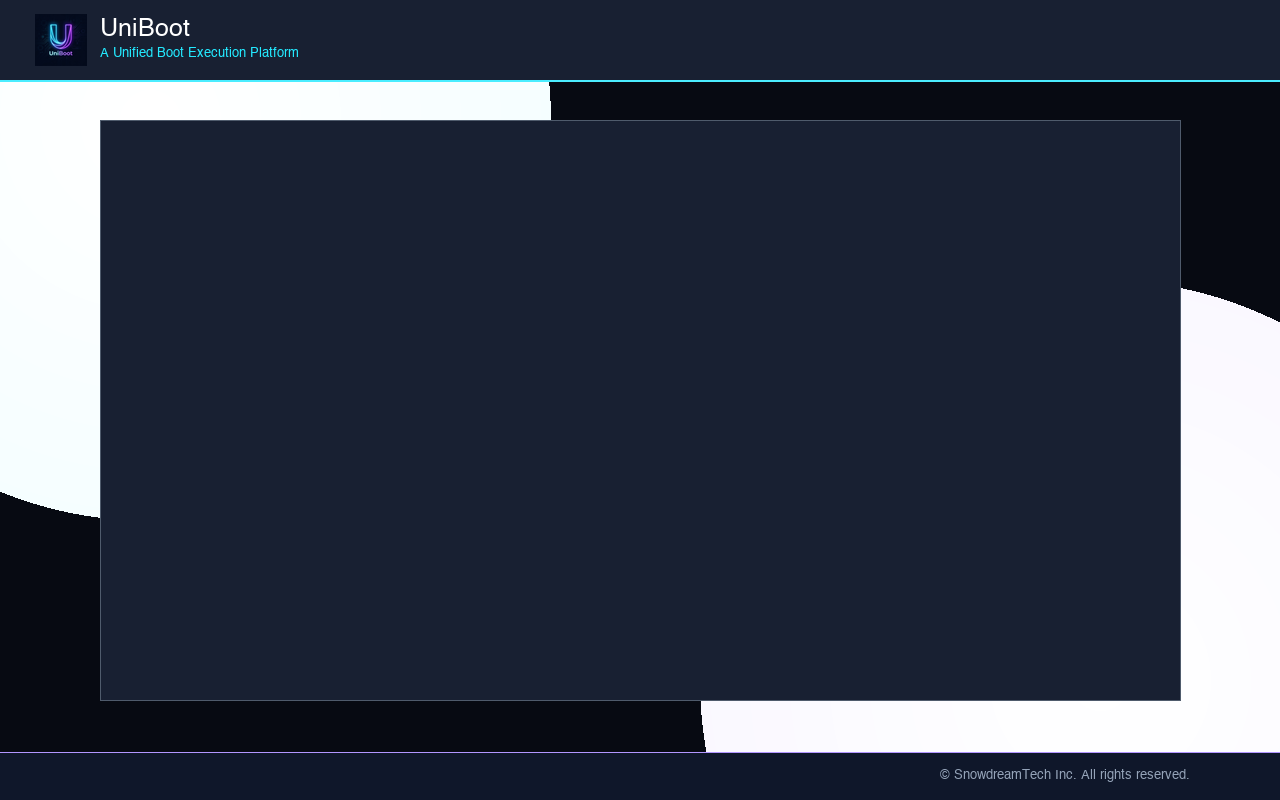
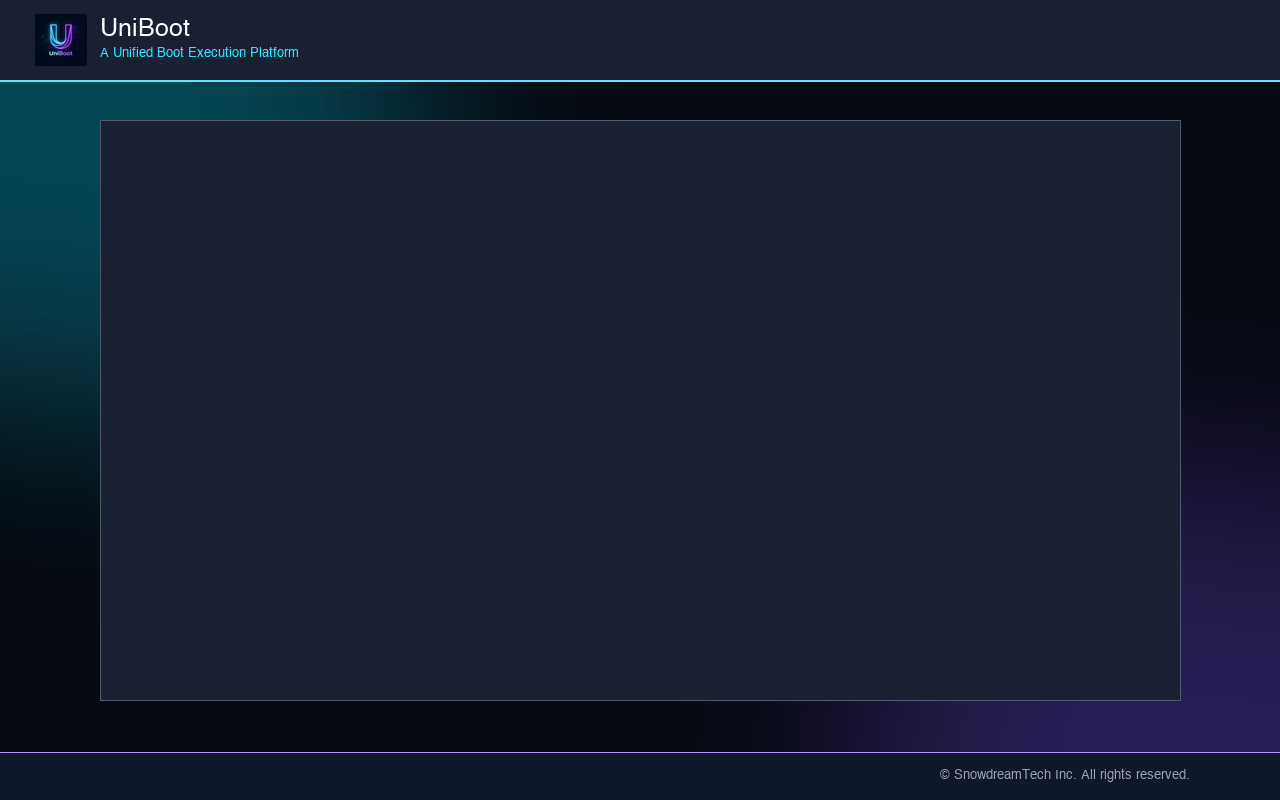
style(theme): apply soft Gaussian blur for ambient background glow

Changed region(s): [[0.5312, 0.3438, 1.0, 0.9375], [0.0, 0.0938, 0.4375, 0.6562]]

diff --git a/scripts/make_ventoy_theme.py b/scripts/make_ventoy_theme.py
@@ -7,7 +7,7 @@
 
 import os
 import sys
-from PIL import Image, ImageDraw, ImageFont
+from PIL import Image, ImageDraw, ImageFont, ImageFilter
 
 script_dir = os.path.dirname(os.path.abspath(__file__))
 project_root = os.path.abspath(os.path.join(script_dir, ".."))
@@ -20,15 +20,19 @@ width, height = 1280, 800
 
 # 1. Base dark Canvas (#070A12)
 bg = Image.new("RGBA", (width, height), (7, 10, 18, 255))
-draw = ImageDraw.Draw(bg)
 
-# Soft ambient background glows
-for r in range(400, 0, -10):
-    alpha = int(10 * (r / 400))
-    # Muted cyan top-left
-    draw.ellipse([150 - r, 120 - r, 150 + r, 120 + r], fill=(0, 229, 255, alpha))
-    # Muted purple bottom-right
-    draw.ellipse([1100 - r, 680 - r, 1100 + r, 680 + r], fill=(124, 77, 255, alpha))
+# Create smooth Gaussian-blurred ambient glow layer
+glow_layer = Image.new("RGBA", (width, height), (0, 0, 0, 0))
+glow_draw = ImageDraw.Draw(glow_layer)
+
+# Draw soft cyan (top-left) & purple (bottom-right) ambient glow shapes
+glow_draw.ellipse([-100, -100, 500, 500], fill=(0, 229, 255, 70))
+glow_draw.ellipse([780, 380, 1380, 980], fill=(124, 77, 255, 70))
+
+# Apply ultra-soft Gaussian Blur
+glow_layer = glow_layer.filter(ImageFilter.GaussianBlur(radius=120))
+bg = Image.alpha_composite(bg, glow_layer)
+draw = ImageDraw.Draw(bg)
 
 # Top Header Bar (height 80)
 draw.rectangle([0, 0, width, 80], fill=(15, 23, 42, 245))
